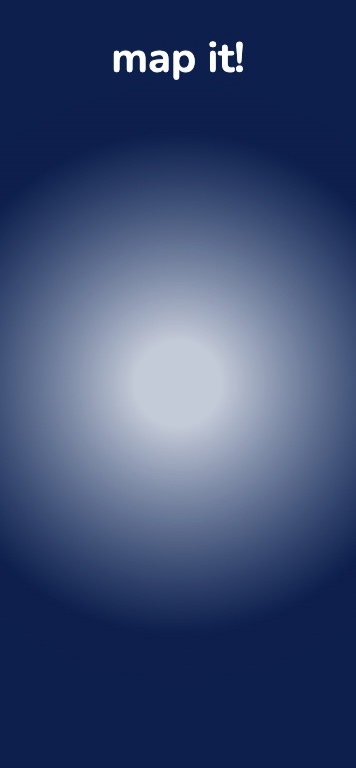
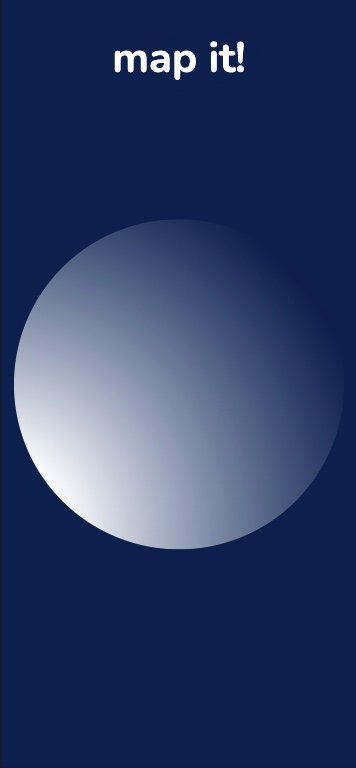
update wireframes and colurs

diff --git a/README.md b/README.md
@@ -1,12 +1,17 @@
-<h1>map it!</h1>
+# map it!
 
-> Interactive game built for the web. Fully responsive, written in HTML, CSS, JavaScript and JQuery, utilising the [Mapbox GL JS API](www.mapbox.com).
+> Interactive game built for the web, written in HTML, CSS, JavaScript and JQuery, utilising the [Mapbox GL JS API](www.mapbox.com).
 ---
-## [View the live project here](https://szilvia-csernus.github.io/map-game/)
-![Landing page](readme-images/amiresponsive.jpeg)
+### [View the live project here](https://szilvia-csernus.github.io/map-game/)
+---
 
-> This project was created for [Code Institute](www.codeintitute.net)'s Web Development Course as the Second Milestone Project. The brief was to build an interactive, front-end project using HTML, CSS and JavaScript, optionally using JQuery and/or any APIs.
-<br>
+![Landing page](readme-images/mockup.jpeg)
+
+> This project was created for [Code Institute](www.codeintitute.net)'s Web Development Course as the Second Milestone Project - Interactive Frontend Development Project - for assessment purposes.
+<br><br>
+Not for public use.
+<br><br>
+&copy; 2023 Szilvia Csernusne Berczes. All rights reserved.
 
 ---
 <br>
@@ -40,20 +45,27 @@
 
 # Wireframes
 <br>
-Wireframes were created in [Balsamiq](https://balsamiq.cloud/).
-![main screen](readme-images/wireframe-main.jpeg)
-![game screens](readme-images/wireframe-game.jpeg)
+
+Wireframes were created in [Balsamiq](https://balsamiq.cloud/). <br>
+
+![main screen](readme-images/balsamiq-wireframe-1.jpeg)<br>
+
+![game screens](readme-images/balsamiq-wireframe-2.jpeg)
 <br><br>
 
 ## Colour Scheme
 
-Seven colours were needed to colour the countries on the map. They were chosen to be vibrant to convey playfulness, yet uniform in tone to have a professional feel.
+Seven colours were needed to colour the countries on the map. I chose these vibrant colours to convey playfulness.
 <br>
 Colours for correct and incorrect feedback were chosen for their brightness to raise the player's attention.
 <br><br>
+Map colours: 
 
-![Colour palette:](readme-images/colour-palette.jpeg)
+![Map colours:](readme-images/map-colours.png)
 
+Background and feedback colours: 
+
+![Map colours:](readme-images/more-colours.png)
 <br><br>
 
 ## Typography
@@ -69,7 +81,7 @@ I selected the font named [Nunito](https://fonts.google.com/specimen/Nunito) fro
 ## Icons
 
 **Icons** for the exit and the info buttons as well as the checkmark and cross icons were downloaded from [svgrepo](https://svgrepo.com/). Credits to individual icons are given in the [credits](#credits) section. <br>
-For **favicons**, I created a small version of the intro image in [Figma](https://www.figma.com/) and used the [RealFaviconGenerator](https://realfavicongenerator.net/svg-favicon/) to convert it to favicons.
+For **favicons**, I created a small logo in [Figma](https://www.figma.com/) and used the [RealFaviconGenerator](https://realfavicongenerator.net/svg-favicon/) to convert it to favicons.
 
 <br><br>
 
@@ -77,9 +89,9 @@ For **favicons**, I created a small version of the intro image in [Figma](https:
 
 The main data source for this project is [Mapbox's country-boundaries-v1](https://studio.mapbox.com/tilesets/mapbox.country-boundaries-v1) tileset. The tileset's countries and territories are defined in the ISO 3166-1 country code standard, including alternate worldviews. I filter for some of the conflicting worldviews in order to avoid ambiguity. Data in this tileset is based on information obtained from officially recognized local or international entities. The displayed country boundaries, the identification of countries / territories as well as the displayed names over the selected countries are coming from this dataset.
 
-Mapbox does not (freely) allow to download this dataset in a searchable format, so I needed to source this information from elswhere. I used [Annexare Studio's open source data (MIT License, Copyright (c) 2014 Annexare Studio)](https://github.com/annexare/Countries/blob/master/data/countries.json) for this purpose. After having transformed and filtered this data, I use it for asking the 10 random countries from the selected region.
+Mapbox does not (freely) allow to download this dataset in a searchable format, so I needed to source this information from elswhere. I used [Annexare Studio's open source data (MIT License, Copyright (c) 2014 Annexare Studio)](https://github.com/annexare/Countries/blob/master/data/countries.json) for this purpose. After having transformed and filtered this dataset, I use it for asking the 10 random countries from the selected region.
 
-The third dataset used is [another open source dataset assembled by Gavin Rehkemper (MIT Licence, Copyright (c) 2021 Gavin Rehkemper)](https://github.com/gavinr/world-countries-centroids/blob/master/dist/countries.geojson). It contains the centroid positions for all countries which I need to display the countries' names over the selected countries as well as to fly the map to this location after an incorrect country choice.
+The third dataset used is [another open source dataset assembled by Gavin Rehkemper (MIT Licence, Copyright (c) 2021 Gavin Rehkemper)](https://github.com/gavinr/world-countries-centroids/blob/master/dist/countries.geojson). It contains the centroid positions for all countries which I needed to display the countries' names over the selected countries as well as to fly the map to this location after an incorrect country choice.
 
 <br><br>
 
@@ -219,7 +231,7 @@ The site was built with [JavaScript](https://en.wikipedia.org/wiki/JavaScript), 
 
 * [RealFaviconGenerator](https://realfavicongenerator.net/svg-favicon/)  - to generate favicons.
 
-* [Am I Responsive?](https://ui.dev/amiresponsive)  - to create site visuals for responsive design.
+* [Multi Device Website Mocup](https://techsini.com/multi-mockup/index.php)  - to create site visuals for responsive design.
 
 * [Gyazo](https://gyazo.com)  - for adding `.gif` files to this README file.
 
@@ -306,9 +318,6 @@ http://bboxfinder.com/
 * Clamp() calculator for responsive font sizes:
 https://grizhlie-clamp-calculator.netlify.app/
 
-* For the intro animation I used:
-https://css-tricks.com/animating-with-clip-path/
-
 <br>
 
 ## Icons
@@ -337,6 +346,10 @@ which I also reference in the code.
 * Base code for hovering effect is adapted from [one of Mapbox's example codes](https://docs.mapbox.com/mapbox-gl-js/example/hover-styles/),
 which I also reference in the code.
 
+* For the intro animation I used ideas from:
+https://css-tricks.com/animating-with-clip-path/ - animating with clip-path
+https://www.youtube.com/watch?v=zadj2i5wUyc - animating with gradients by Colt Steele
+
 * Adding drop-shadow filter to svg icons:
 https://css-tricks.com/adding-shadows-to-svg-icons-with-css-and-svg-filters/
 <br><br>
@@ -362,8 +375,8 @@ I would like to thank the following contributors:
 ##  Disclaimer
 <br>
 
-This project was created for Code Institute's web application development course as the Second Milestone Project - Interactive Frontend Development Project - for assessment purposes. 
+This project was created for Code Institute's web application development course as the Second Milestone Project - Interactive Frontend Development Project - for assessment purposes. All parts of the project form the intellectual property of the developer.
 <br><br>
 Not for public use.
 <br><br>
-&copy; All rights reserved. Szilvia Csernusne Berczes, March 2023.
+&copy;2023 Szilvia Csernusne Berczes. All rights reserved. 
